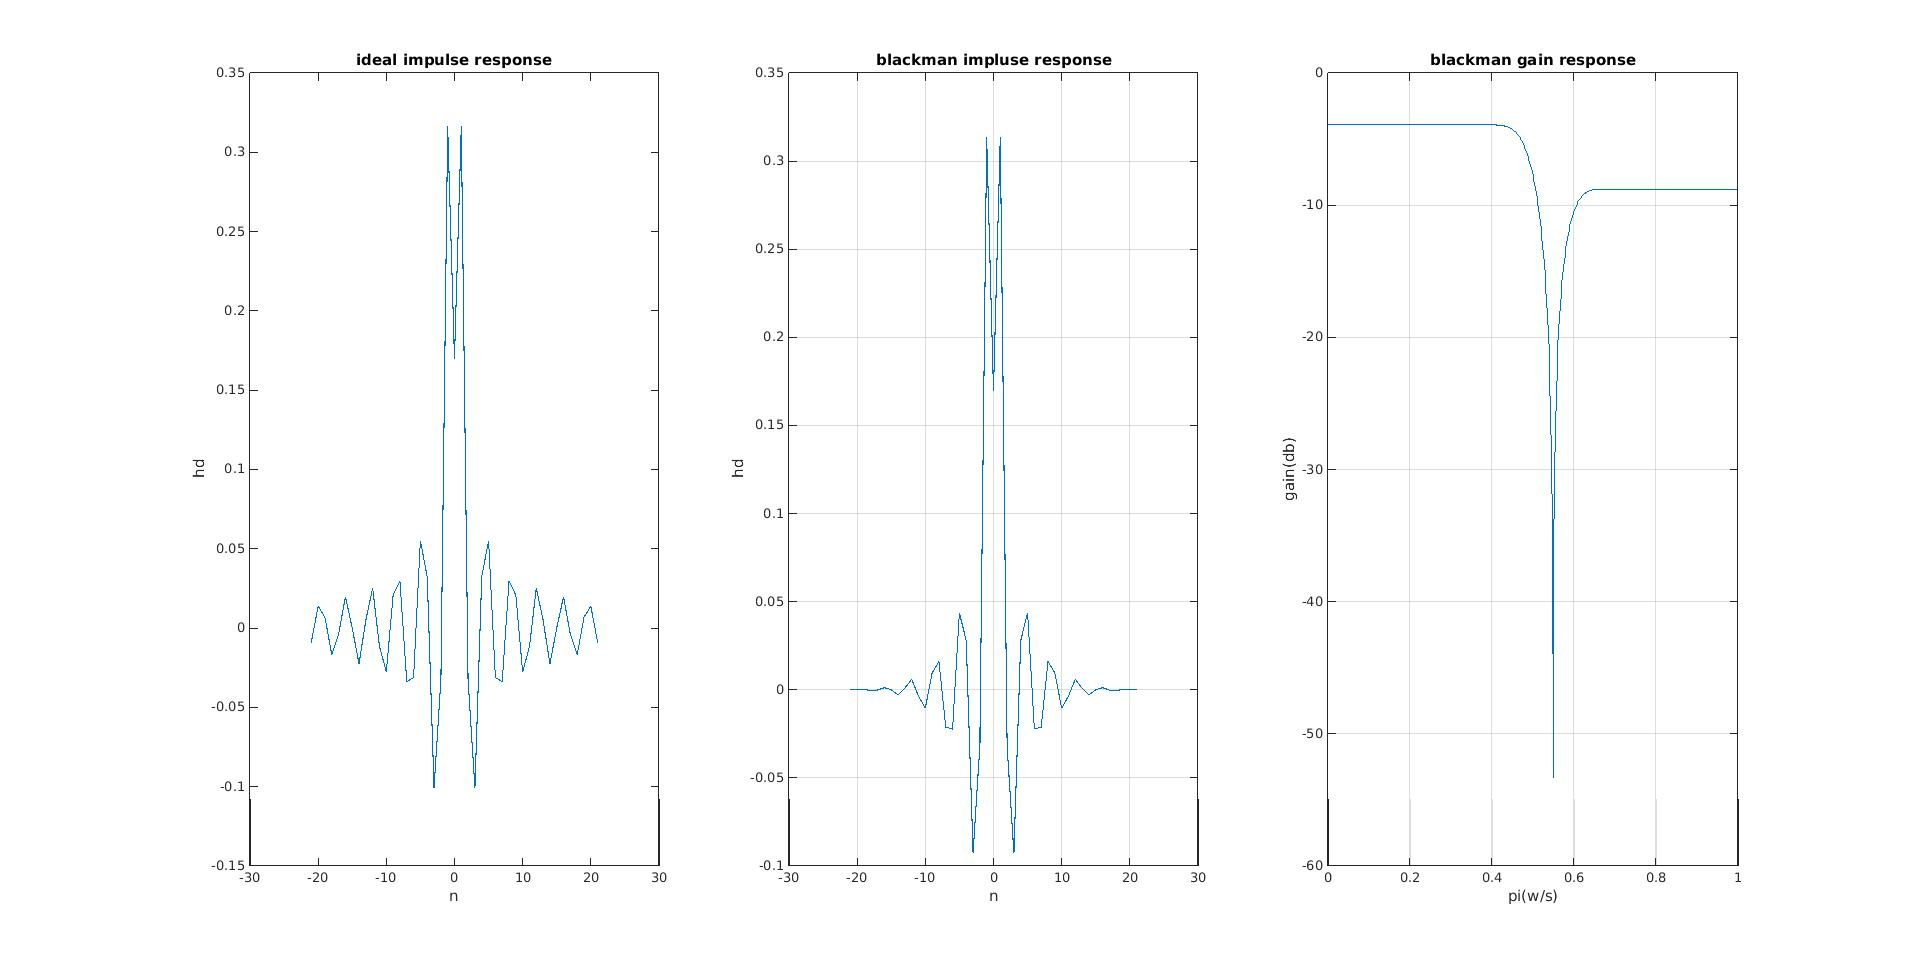
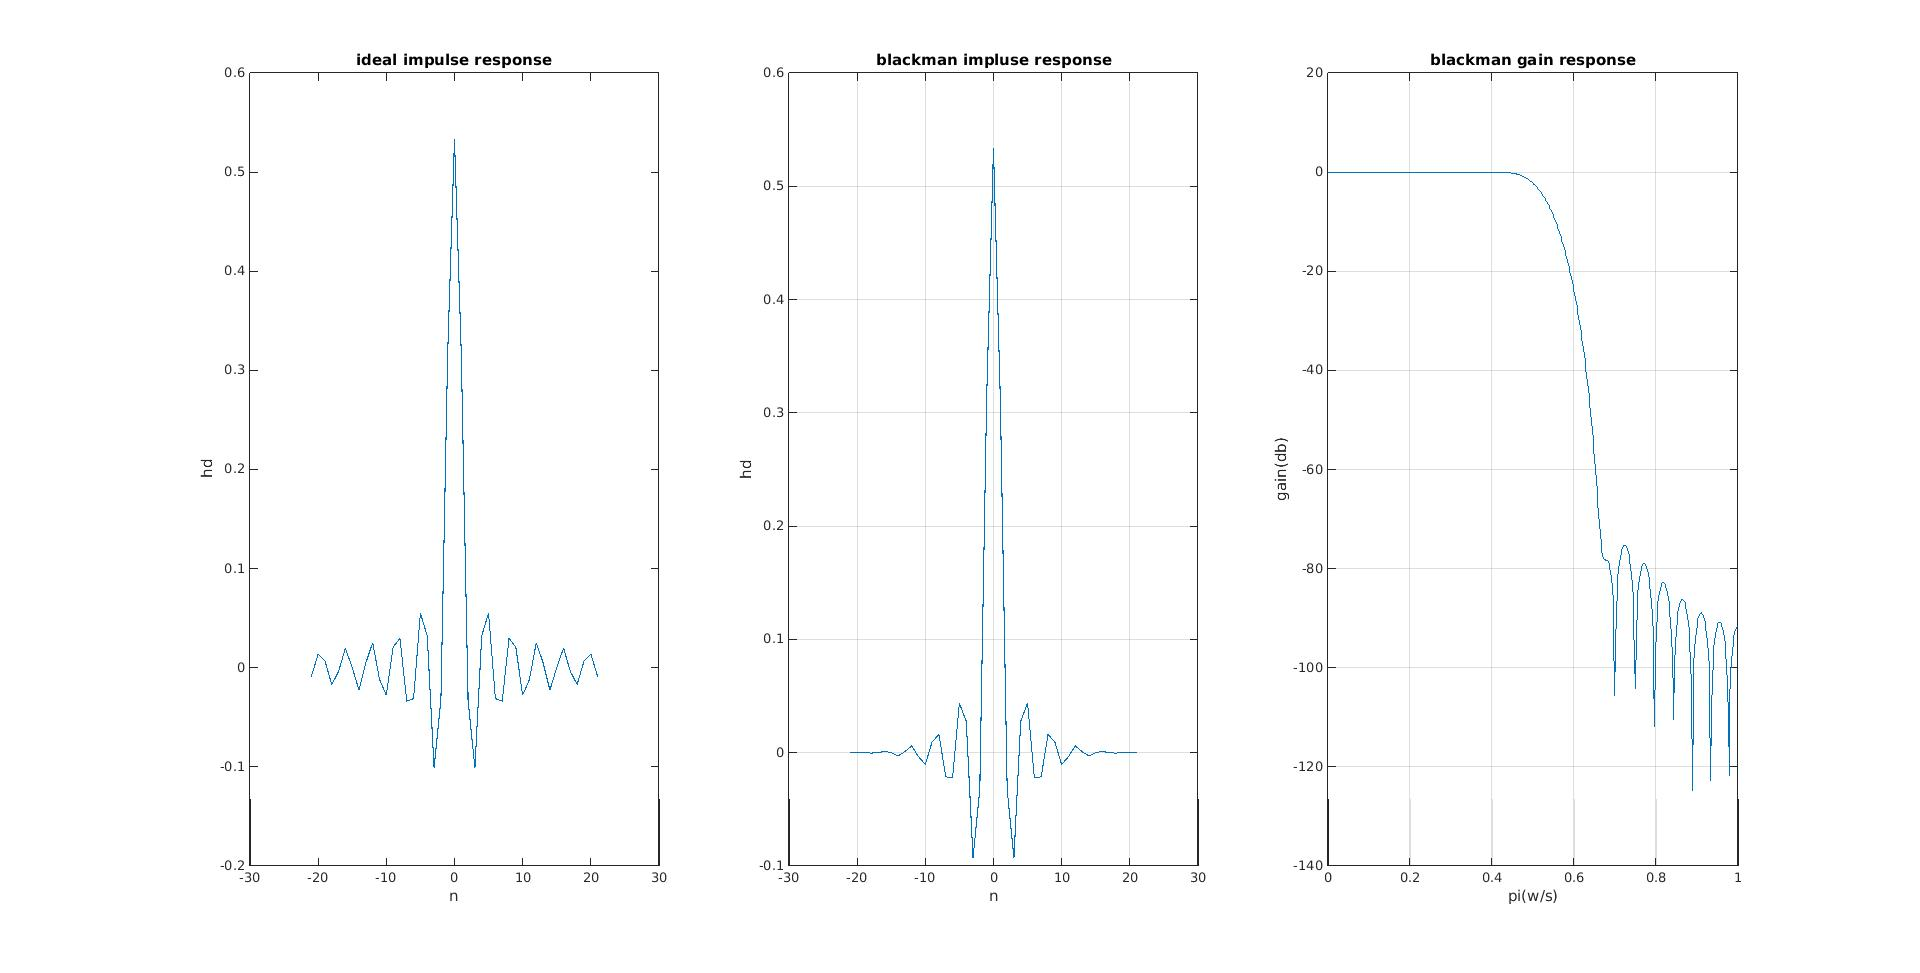
...

diff --git a/project2/b.m b/project2/b.m
@@ -49,13 +49,13 @@ for i = 1 : 4
   if i == 1
     M = ceil(3.11 / (ws - wp));
     n = 2 * M;
-     win = hamming(n+1);
+    win = hamming(n+1);
   end
   
   x = -M : M;
   
   subplot(1,2,1);
-  hh = fir1(n, Wn, ftype, win);
+  hh = fir1(n, wc, win);
   plot(x, hh, '-');
   title(titles(i));
   xlabel('n');

diff --git a/project2/a.m b/project2/a.m
@@ -48,7 +48,7 @@ for i = 1 : 4
   end
   
   hd = sin(wc * pi * n) ./ (pi * n);
-  hd(find(n==0)) = wc/pi;
+  hd(find(n==0)) = wc;
 
   subplot(1,3,1);
   plot(n, hd, '-');
